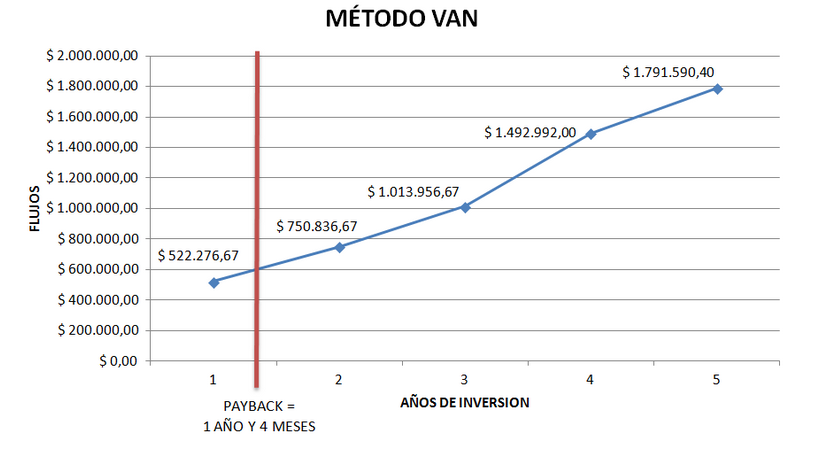
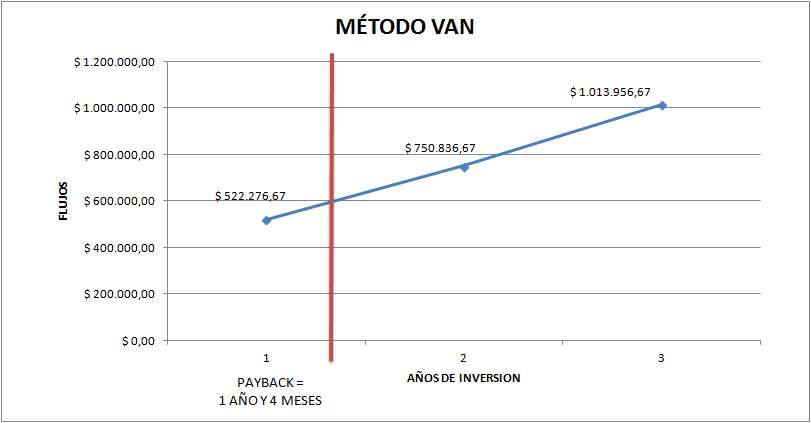
cambios

diff --git a/index.html b/index.html
@@ -37,9 +37,14 @@
 	<body>
 
 		<div class="reveal">
-
+			<div>
+				<img style="margin-left:25px;margin-top:25px;" src="img/logo.png" width="100" height="100" alt="">
+			</div>
 			<!-- Any section element inside of this container is displayed as a slide -->
 			<div class="slides">
+				<section>
+					<img style="background:none;border:0;" data-src="img/logo.png" alt="Down arrow">
+				</section>
 				<section>
 					<h1>Hacienda Crece</h1>
 					<h3>Cerveceria Hacienda</h3>
@@ -88,7 +93,7 @@
 						<ul>
 							<li>No se utilizan conservantes</li>
 							<li>No se realiza una pasteurización ya que la cual modifica el sabor de la misma y se pierde flavour.</li>
-							<li>Beneficios nutritivos.</li>
+
 						</ul>
 						<br>
 					</section>
@@ -125,18 +130,17 @@
 					<section>
 						<h2>Nuestros Objetivos</h2>
 						<br>
-						<p>Incrementar la producción y ventas en un 20% anual en un periodo de 5 años. </p>
+						<p>Incrementar la producción y ventas en un 20% anual en un periodo de 3 años. </p>
 						<br>
-						<p>Aumentar la clientela en un 40% anual</p>
+						<p>Aumentar la clientela en un 40%</p>
 						<br>
-						<p>Aumentar la participación de Mercado de Cerveza Artesanal al 0.5%.</p>
+						<p>Aumentar la participación de Mercado de Cerveza Artesanal al 0.15%.</p>
 						</p>
 						<br>
 					</section>
 					<section>
 						<h2>Alcance</h2>
-							<br>
-							<img  src="img/alcance.jpg" alt="Down arrow">
+							<img  src="img/alcancenuevo.jpg" alt="Down arrow">
 					</section>
 					<section>
 						<h2>FODA</h2>
@@ -194,12 +198,17 @@
 				</section>
 
 
-				<section id="transitions">
+				<section >
 					<h2>Factibilidad Económica</h2>
 					<img src="img/factibilidadEconomica.png" alt="">
 				</section>
 
-				<section id="transitions">
+				<section >
+					<h2>Factibilidad Económica</h2>
+					<img src="img/factibilidadEconomica2.png" alt="">
+				</section>
+
+				<section >
 					<h2>Factibilidad de Cronograma</h2>
 					<p>
 						<img height="500" width="900"  src="img/cronograma.png" alt="Down arrow">
@@ -215,7 +224,10 @@
 					<section>
 						<h2>Estudio de Impacto Ambiental</h2>
 						<p>
-							Los residuos de la cebada utilizada para la producción serán derivados a un chanchero con lo que se reducirá el impacto ambiental de los mismos.
+							Desechos de Producción
+						</p>
+						<p>
+							Aguas residuales
 						</p>
 					</section>
 				</section>
